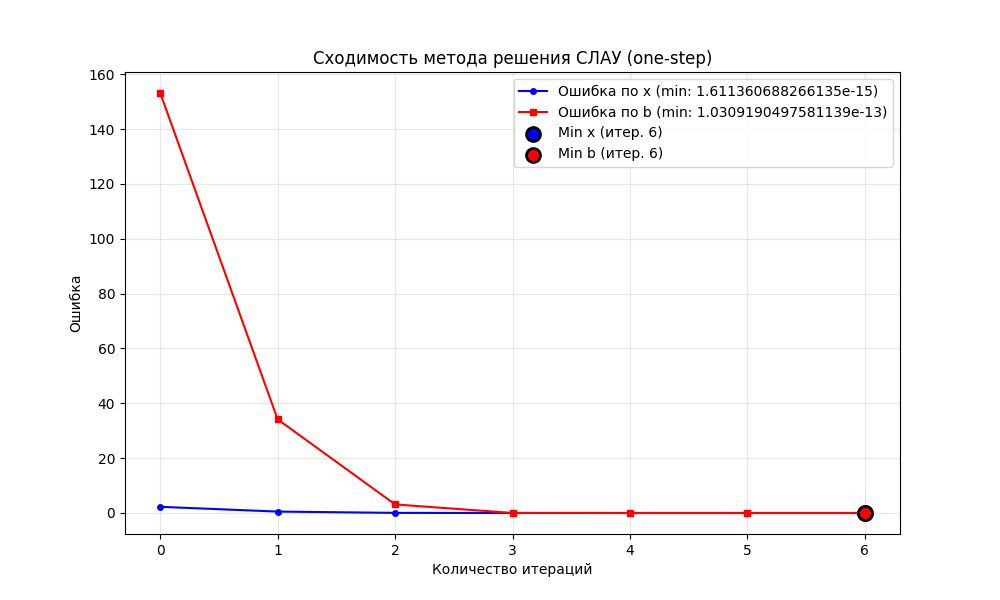
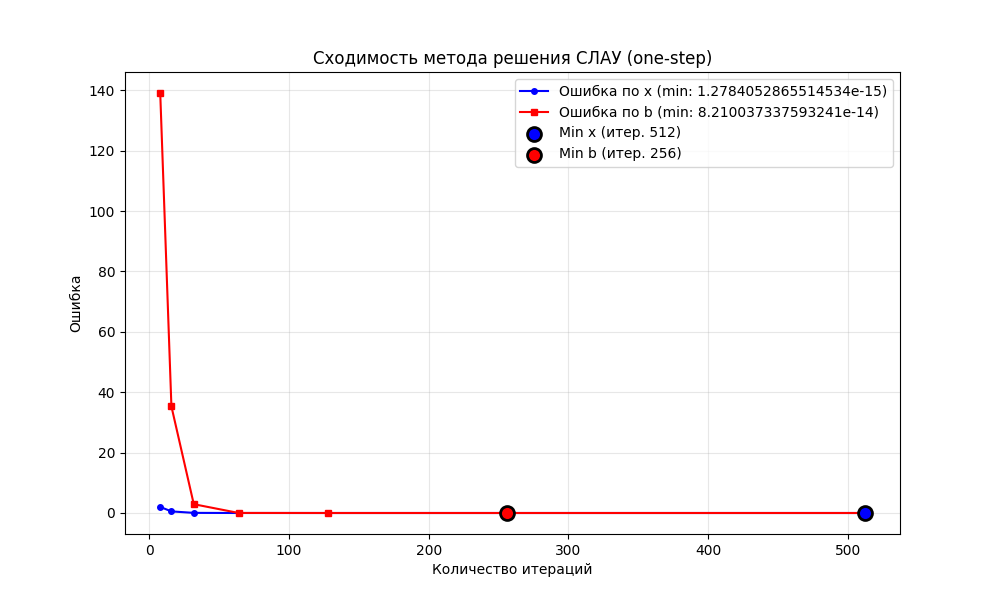
state v0.0.4

diff --git a/analyze.py b/analyze.py
@@ -66,4 +66,4 @@ for label in M_type:
         errors_x.append(np.sqrt(((f1 - f2)**2).sum()))
         errors_b.append(np.sqrt(((b1 - b2)**2).sum()))
 
-    plot_errors_with_min(list(range(len(errors_x))), errors_x, errors_b, label)
+    plot_errors_with_min(N_iters, errors_x, errors_b, label)
